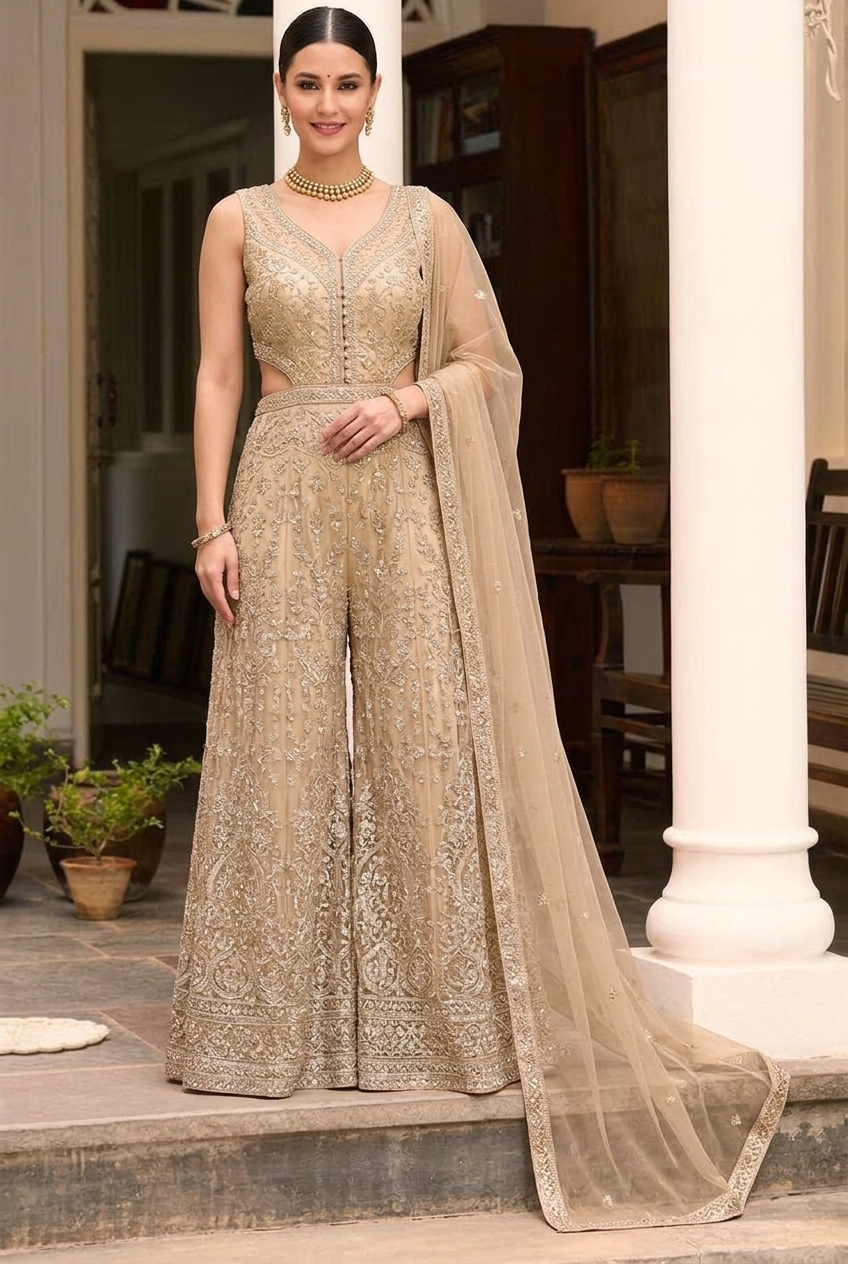
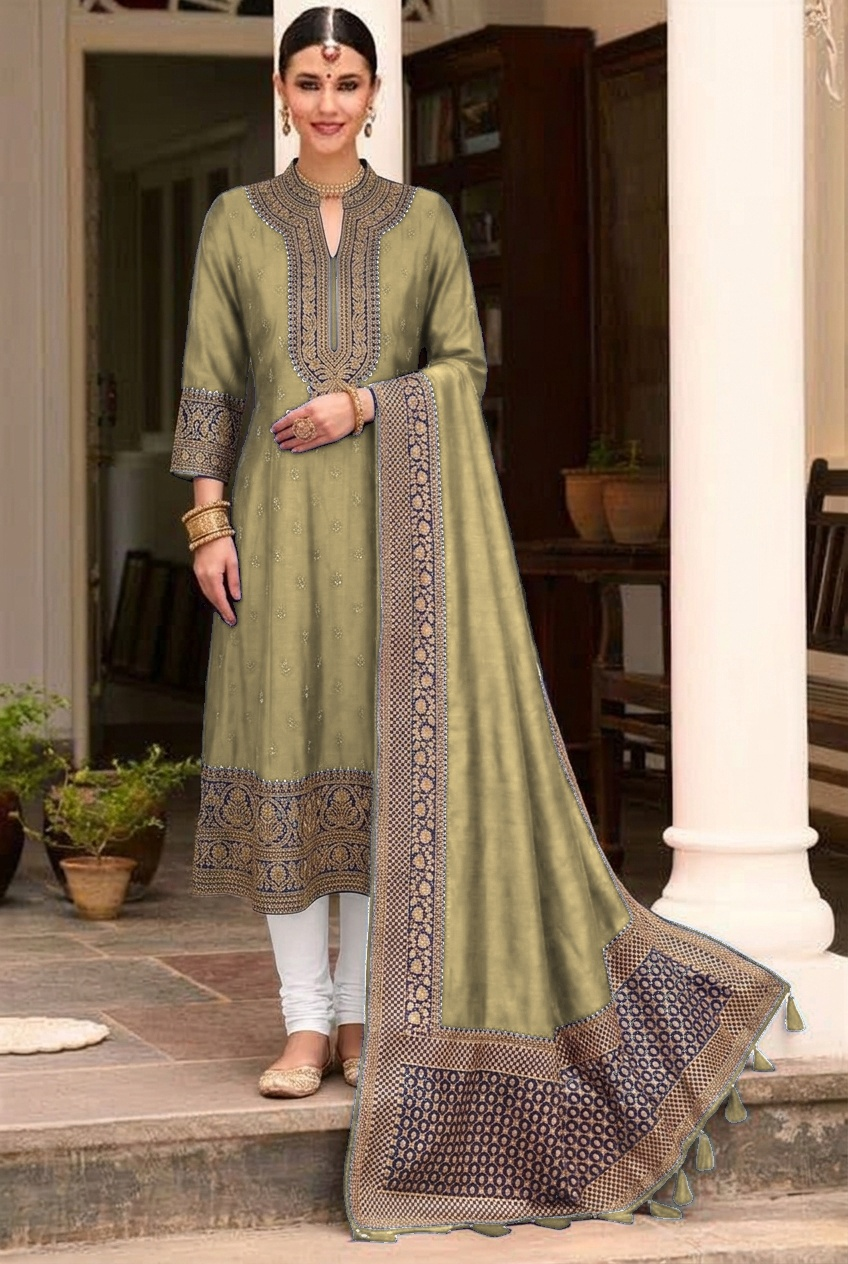
fix: update gold dress tryon to full-sleeve flared anarkali gown (not pants) to match reference garment

diff --git a/app.py b/app.py
@@ -354,7 +354,7 @@ HTML_PAGE = """<!DOCTYPE html>
                 <input type="file" id="garmentInput" accept="image/*" style="display:none" onchange="handleUserUpload(event, 'garmentView')">
                 <label class="form-label">Select Reference Dataset Garment (Verified Styles):</label>
                 <select id="categorySelect" onchange="onCategoryChanged()">
-                    <option value="gold_embellished_jumpsuit">1. Champagne Gold Embellished Jumpsuit</option>
+                    <option value="gold_embellished_jumpsuit">1. Champagne Gold Embellished Gown (Full Sleeves)</option>
                     <option value="blue_denim_jeans">2. Light Blue Slim Denim Jeans</option>
                     <option value="gingham_check_shirt">3. Black &amp; White Gingham Check Shirt</option>
                     <option value="black_polo_tshirt">4. Black Collared Polo T-Shirt</option>
